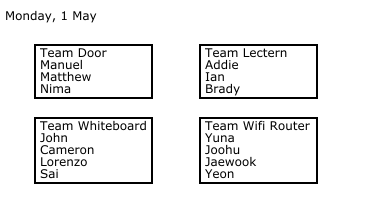
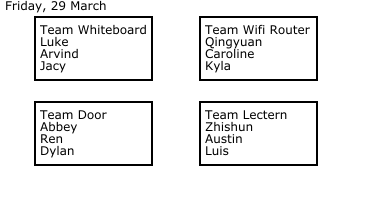
prep for 227C 24Sp

Changed region(s): [[0.0, 0.0, 0.4053, 0.93], [0.5211, 0.06, 0.8395, 0.93]]

diff --git a/makeSmallGroups.py b/makeSmallGroups.py
@@ -27,12 +27,12 @@ def makeSmallGroups():
         ySize = 200
         Teams_list = [
             ['Lectern',   [200, 102, 117, 70], 3],
-            ['Whiteboard',    [ 35,  17, 117, 70], 4],
-            ['Wifi Router',[200,  17, 117, 70], 4],
+            ['Whiteboard',    [ 35,  17, 117, 70], 3],
+            ['Wifi Router',[200,  17, 117, 70], 3],
             ['Door',      [ 35, 102, 117, 70], 3]#,
             #['Projector',    [125,  17, 117, 70], 3]
             ]
-        datepos = [5, 20]
+        datepos = [5, 10]
     elif courseNumber == 'P50':
         ySize = 200
         yShift = ySize/2+20 
@@ -46,17 +46,17 @@ def makeSmallGroups():
         datepos = [5, 20]
     elif (courseNumber == 'P230' and layout == 'B'):
         print(layout)
-        ySize = 350
+        ySize = 400
         yShift = ySize/2+70 # depracted
         Teams_list = [
-            ['Door',          [ 15,  57, 120], 4],
-            ['Clock',         [ 15, 142, 117], 3],
-            ['Whiteboards',   [ 15, 227, 121], 4],
-            ['Motion Sensor', [180,  57, 135], 4],
-            ['Metal Disk',    [180, 142, 117], 4],
-            ['Lectern',       [180, 227, 117], 4]
+            ['Door',          [ 15,  350-57, 120], 4],
+            ['Clock',         [ 15, 350-142, 117], 3],
+            ['Whiteboards',   [ 15, 350-227, 121], 4],
+            ['Motion Sensor', [180, 350- 57, 135], 4],
+            ['Metal Disk',    [180, 350-142, 117], 4],
+            ['Lectern',       [180,350- 227, 117], 4]
             ]
-        datepos = [5, 20]
+        datepos = [5, 100]
     elif courseNumber == 'P230':
         ySize = 350
         yShift = ySize/2+70 # depracted
@@ -67,7 +67,7 @@ def makeSmallGroups():
             ['Whiteboard',   [ 35, 227, 117, 70], 4],
             ['Center',       [125, 142, 117, 70], 4]
             ]
-        datepos = [5, 20]
+        datepos = [5, 0]
 
     # SHUFFLE STUDENTS
 
@@ -100,25 +100,27 @@ def makeSmallGroups():
                 thisTeam['Coords'][0],
                 thisTeam['Coords'][1],
                 thisTeam['Coords'][2],
-                (thisTeam['NumberOfThinkers']+1)*emSize+5,#thisTeam['Coords'][3],
+                (thisTeam['NumberOfThinkers']+1)*emSize+15,
                 fill='#ffffff',stroke_width=2,stroke='black')
 
             groupLabel = draw.Text('Team ' + thisTeam['Name'],
-                12,thisTeam['Coords'][0]+5,thisTeam['Coords'][1]+emSize*thisTeam['NumberOfThinkers']+5,fill='black')
+                12,thisTeam['Coords'][0]+5,
+                thisTeam['Coords'][1]+emSize+5,
+                fill='black')
             d.append(box)
             d.append(groupLabel)
             for iStudent_inThisTeam in range(thisTeam['NumberOfThinkers']):
                 studentLabel = draw.Text(student_list[iStudent],
                     12,
                     thisTeam['Coords'][0]+5,
-                    thisTeam['Coords'][1]+emSize*thisTeam['NumberOfThinkers']+5-emSize*(iStudent_inThisTeam+1),
+                    thisTeam['Coords'][1]+emSize+5+emSize*(iStudent_inThisTeam+1),
                     fill='black')
                 iStudent = iStudent + 1
                 d.append(studentLabel)
                 if iStudent >= len(student_list):
                     break
    
-    d.append(draw.Text(datestr, 12, datepos[0], ySize-datepos[1], fill='black'))
+    d.append(draw.Text(datestr, 12, datepos[0], datepos[1], fill='black'))
 
     d.save_svg('teams_' + courseNumber + '.svg')
 
